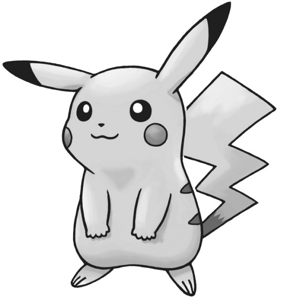
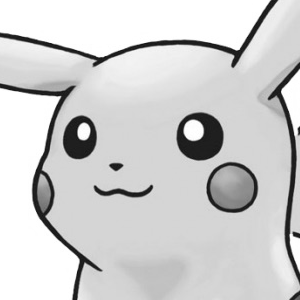
added change to the new file

diff --git a/image.py b/image.py
@@ -1,16 +1,8 @@
 from PIL import Image, ImageFilter
 
 img = Image.open('./Pokedex/pikachu.jpg')
-filtered_img = img.filter(ImageFilter.BLUR)
-# filtered_img = img.filter(ImageFilter.SHARPEN)
-# filtered_img = img.filter(ImageFilter.SMOOTH)
 filtered_img = img.convert('L')
-# rotate the image
-# crooked = filtered_img.rotate(120)
-# resize the Image
-resize = filtered_img.resize((300, 300))
-# save the image
-resize.save("grey.png", 'png')
-# show the image
-# filtered_img.show()
-resize.show()
+box = (100, 100, 400, 400)
+region = filtered_img.crop(box)
+region.save("grey.png", 'png')
+region.show()
